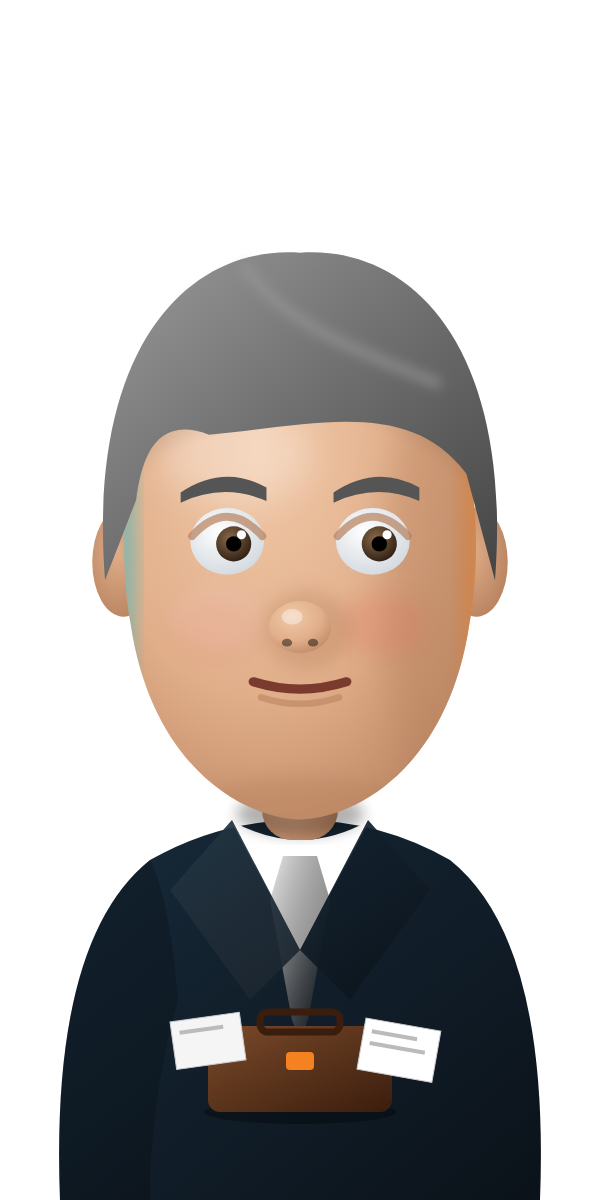
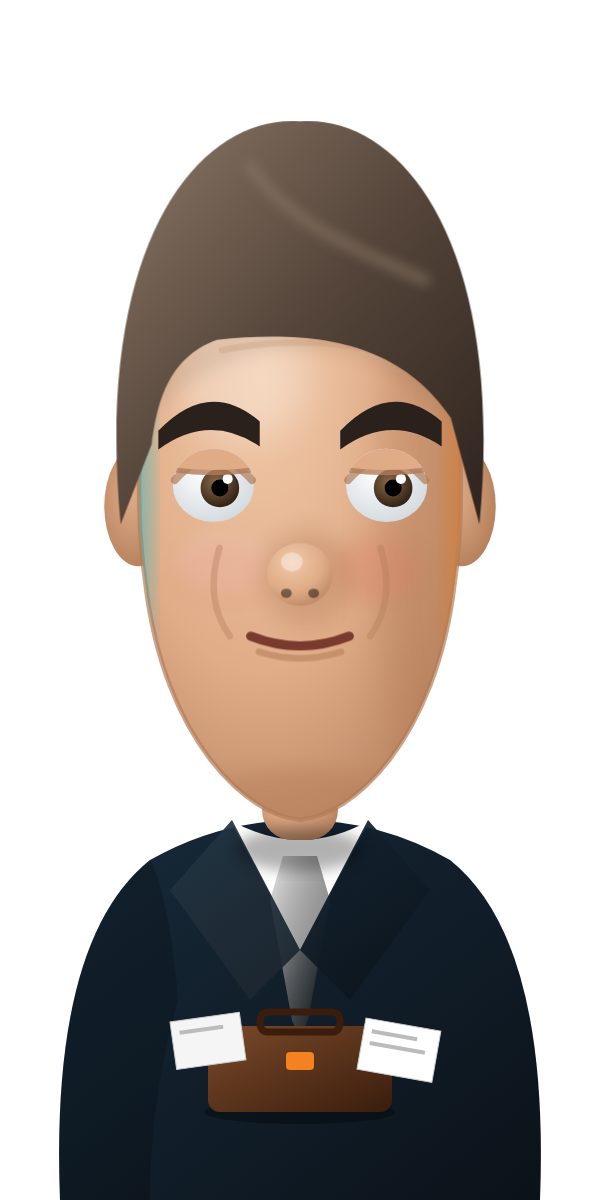
Paulo Portas desenhado a partir das fotos da Filipa, sem óculos
Claude-Session: https://claude.ai/code/session_01NgGM5uXfNVxrxKnHrgdLVu

Changed region(s): [[0.15, 0.0925, 0.87, 0.74], [0.42, 0.4625, 0.6, 0.5858]]

diff --git a/rubrica-quem-disse-isto/01_imagem/build/suspeitos.js b/rubrica-quem-disse-isto/01_imagem/build/suspeitos.js
@@ -11,10 +11,11 @@ const PRESETS = {
   passos: { nome: 'Passos Coelho', pele: ['#F3CBAA', '#E4B08C', '#B98562'], cabelo: ['#6B4A36', '#3E2A1F', '#22160F'],
     w: 120, h: 244, jaw: .64, hl: 46, vol: 44, lid: .2, nl: 1.25, exm: 1.07, erm: 1.18, mw: .75, myo: 12, bgap: -6, estilo: 'lado', sobr: { t: 20, w: 76, cor: '#2A1B13' }, oculos: 'fino', nariz: 1.05, orelha: 1,
     rugas: false, sorriso: .0, fato: N, gravata: O, camisa: W, prop: 'copo', brilho: 1 },
-  // PROVISÓRIO: sem foto utilizável → só adereços do briefing, traços genéricos (sem semelhança).
-  portas: { nome: 'Paulo Portas (PROVISÓRIO)', pele: ['#F1C9A8', '#E1AE8A', '#B6805D'], cabelo: ['#9A9A9A', '#6E6E6E', '#444'],
-    w: 140, h: 200, jaw: .64, hl: 22, estilo: 'lado', sobr: { t: 13, w: 66, cor: '#555' }, oculos: 'nenhum', nariz: 1.0, orelha: 1,
-    rugas: false, sorriso: .1, fato: N, gravata: G, camisa: W, prop: 'pasta', brilho: 1 },
+  // Traços lidos nas fotos enviadas pela Filipa (sem óculos, por indicação dela) + medidas faciais.
+  portas: { nome: 'Paulo Portas', pele: ['#F1C9A8', '#E0AC88', '#B27C59'], cabelo: ['#8C7A68', '#55453A', '#2E241E'],
+    w: 128, h: 236, jaw: .56, hl: -8, vol: 22, lid: .35, nl: 1.15, exm: 1.19, erm: 1.1, mw: 1.05, myo: 8, bgap: 10, chin: 6,
+    estilo: 'lado', sobr: { t: 24, w: 78, cor: '#2B211C' }, oculos: 'nenhum', nariz: 1.05, orelha: 1.1,
+    rugas: true, sorriso: .35, fato: N, gravata: G, camisa: W, prop: 'pasta', brilho: 1 },
   montenegro: { nome: 'Luís Montenegro', pele: ['#EDBF9B', '#D9A07A', '#AD7653'], cabelo: ['#4A3B33', '#2B211C', '#15100D'],
     w: 176, h: 180, jaw: .88, hl: -4, vol: 26, lid: .3, nl: 1.0, exm: 1.12, nw: 1.25, bgap: -6, chin: -10, estilo: 'lado', sobr: { t: 22, w: 80, cor: '#1c1411' }, oculos: 'nenhum', nariz: 1.0, orelha: 1,
     rugas: false, sorriso: .75, fato: N, gravata: W, camisa: W, prop: 'microfone', brilho: 1 },

diff --git a/rubrica-quem-disse-isto/PLANO.md b/rubrica-quem-disse-isto/PLANO.md
@@ -39,3 +39,4 @@ Estado em 2026-11-04. **Fase atual: pesquisa e proposta.** Nada de imagens finai
 - v3: proporções medidas nas fotos (pontos faciais, `config/medidas_faciais.json`), cabeças maiores (estilo caricatura de jornal).
 - Briefing para ilustrador: `01_imagem/BRIEFING_ILUSTRADOR.md`. v4: franja do Passos, orelhas e boca do Cavaco.
 - v5 (entrega "ilustrador"): `01_imagem/png_v5/` — folhas de expressões (6), visemas A–F+X, bustos 1500x3000 neutro/nega, 5 personagens. Em falta vs briefing: vistas ¾, mãos, ficheiro PSD; Portas real.
+- Portas v5.1: desenhado a partir das 6 fotos da Filipa (sem óculos), medidas em `config/medidas_media.json`. Refs em `refs/paulo_portas_filipa/` (grupos A e B).
